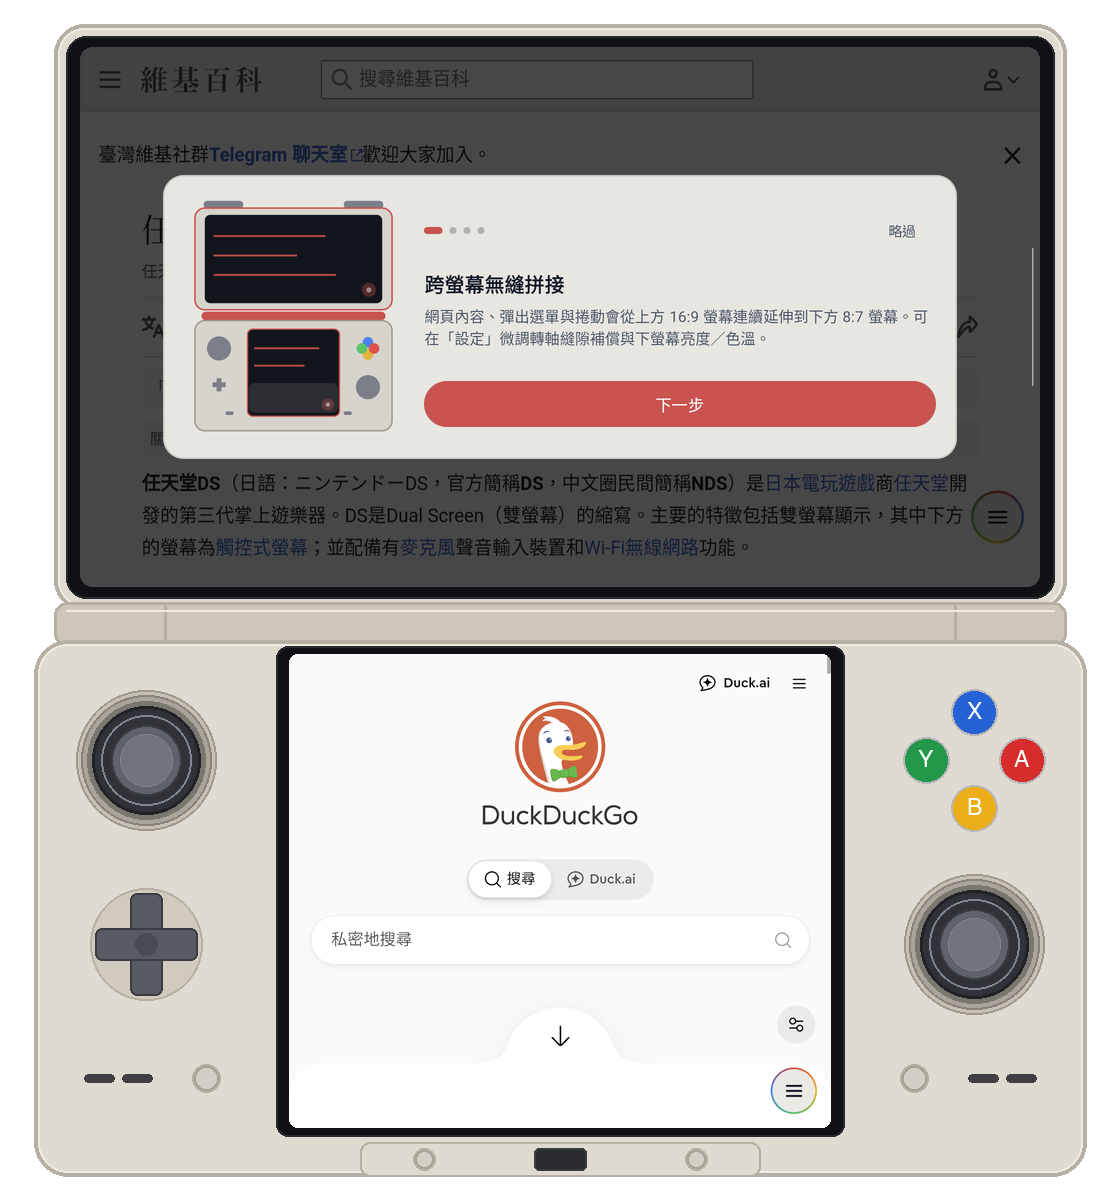
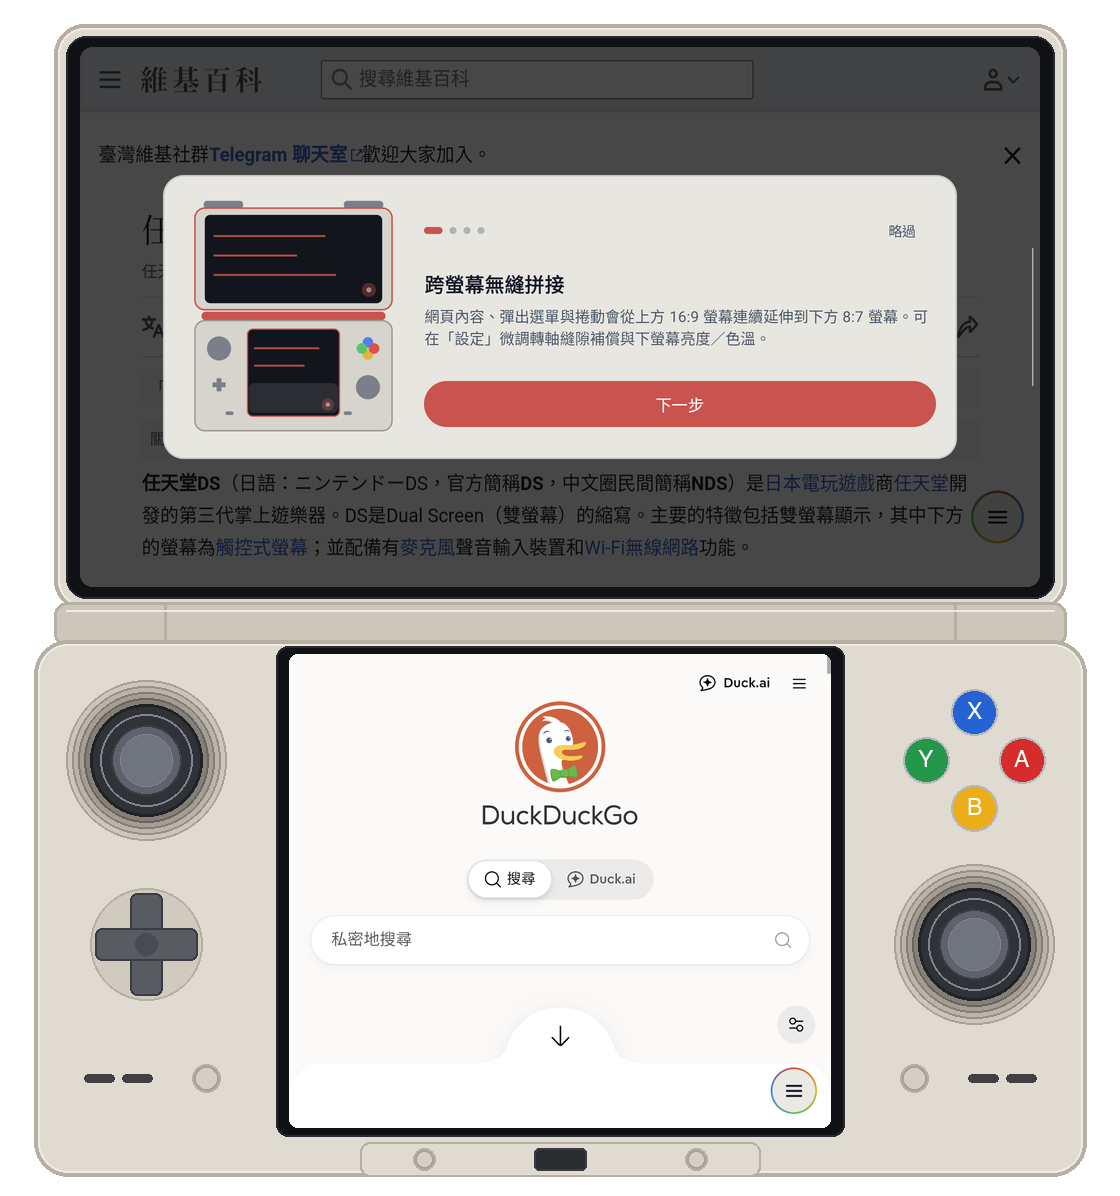
docs: expand recessed joystick dish to r=80 with multi-step 360 shading

Changed region(s): [[0.0625, 0.5569, 0.2188, 0.7115], [0.7812, 0.7115, 0.9375, 0.8662]]

diff --git a/README.md b/README.md
@@ -16,7 +16,7 @@
 
 | 雙螢幕獨立模式（Google ＋ DuckDuckGo） | 跨螢幕拼接模式（原生 1080p 無縫延伸） |
 | :---: | :---: |
-| <img src="docs/screenshots/thor_independent.png?v=7" alt="AYN Thor 雙螢幕獨立模式" width="380" /> | <img src="docs/screenshots/thor_span.png?v=7" alt="AYN Thor 跨螢幕拼接模式" width="380" /> |
+| <img src="docs/screenshots/thor_independent.png?v=8" alt="AYN Thor 雙螢幕獨立模式" width="380" /> | <img src="docs/screenshots/thor_span.png?v=8" alt="AYN Thor 跨螢幕拼接模式" width="380" /> |
 
 ### 2. 全螢幕與統一浮動選單
 - 隱藏狀態列與導覽列的純淨全螢幕瀏覽，透過 `LaunchTrampolineActivity` 確保於主顯示器（上螢幕）正確啟動。
@@ -30,7 +30,7 @@
 
 | 統一浮動選單 | 新手教學導覽 |
 | :---: | :---: |
-| <img src="docs/screenshots/thor_menu_touchpad.png?v=7" alt="AYN Thor 統一浮動選單" width="380" /> | <img src="docs/screenshots/thor_tutorial.png?v=7" alt="AYN Thor 新手教學導覽" width="380" /> |
+| <img src="docs/screenshots/thor_menu_touchpad.png?v=8" alt="AYN Thor 統一浮動選單" width="380" /> | <img src="docs/screenshots/thor_tutorial.png?v=8" alt="AYN Thor 新手教學導覽" width="380" /> |
 
 ### 3. AYN Thor 主機配色主題
 內建 5 款對應 AYN Thor 實機外觀的配色主題（預設為 `Rainbow`），皆支援雙螢幕即時同步：
@@ -41,7 +41,7 @@
 - **Custom**（自訂色相滑桿）
 
 <p align="center">
-  <img src="docs/screenshots/thor_theme_settings.png?v=7" alt="AYN Thor 主機配色主題設定" width="380" />
+  <img src="docs/screenshots/thor_theme_settings.png?v=8" alt="AYN Thor 主機配色主題設定" width="380" />
 </p>
 
 ### 4. 手把與下螢幕觸控板
@@ -56,7 +56,7 @@
 
 | 手把快捷操作說明（無觸控板） | 拼接模式＋下螢幕多指觸控板 |
 | :---: | :---: |
-| <img src="docs/screenshots/thor_gamepad_guide.png?v=7" alt="AYN Thor 手把快捷操作說明" width="380" /> | <img src="docs/screenshots/thor_touchpad.png?v=7" alt="AYN Thor 下螢幕多指觸控板" width="380" /> |
+| <img src="docs/screenshots/thor_gamepad_guide.png?v=8" alt="AYN Thor 手把快捷操作說明" width="380" /> | <img src="docs/screenshots/thor_touchpad.png?v=8" alt="AYN Thor 下螢幕多指觸控板" width="380" /> |
 
 ### 5. 隱私與網頁增強
 - 內建廣告網域阻擋（`AdBlocker`）與攔截計數
